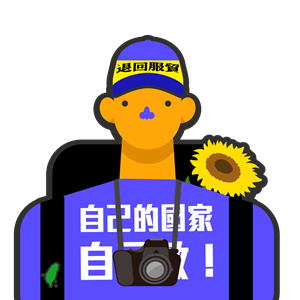
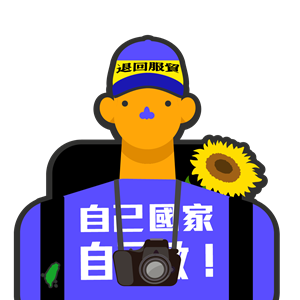
1

diff --git a/index.html b/index.html
@@ -36,7 +36,7 @@ height="0" width="0" style="display:none;visibility:hidden"></iframe></noscript>
     <div class="gradient-bg">
         <!--主視覺-->
         <div>
-            <div class="person"><img id="person" width="250px" src="images/p.gif" alt=""></div>
+            <div class="person"><img id="person" width="110px" src="images/p.gif" alt=""></div>
         </div>
         <!--主視覺-->
         <!--引文-->

diff --git a/styles/style.css b/styles/style.css
@@ -112,7 +112,7 @@ footer{
 
 .person {
     position: fixed;
-    left: 52%;
+    left: 50%;
     top: 30%;
     -webkit-transform: translate(-50%, -50%);
     transform: translate(-50%, -50%);
